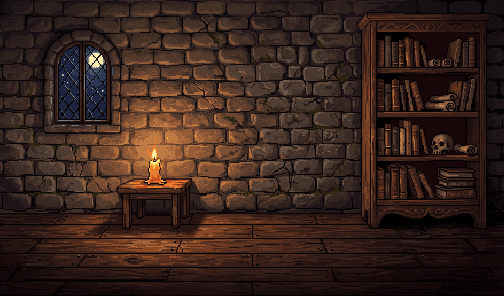
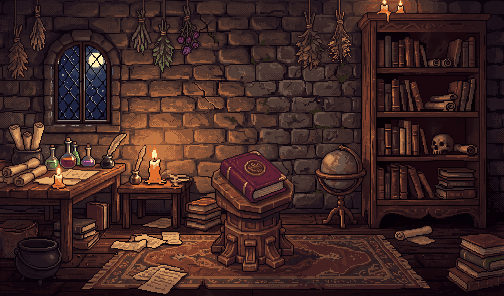
Livre de sorts : l'étude refaite avec le lutrin dedans, une lueur ovale

diff --git a/godot/scripts/Game/LecternView.cs b/godot/scripts/Game/LecternView.cs
@@ -16,6 +16,10 @@ public partial class LecternView : Control
 
     public event Action? Opened;
 
+    /// <summary>Dessiner le lutrin ? Non quand l'image de la scène le contient déjà (même point de vue, même lumière : choix
+    /// de l'utilisateur, 2026-11-12) : il ne reste alors que la lueur, les étincelles et le clic.</summary>
+    public bool ShowImage { get; init; } = true;
+
     private static readonly Color Wood = MapRenderer.Rgb(104, 66, 38), WoodDark = MapRenderer.Rgb(62, 38, 22),
         WoodLight = MapRenderer.Rgb(140, 94, 56), Leather = MapRenderer.Rgb(96, 44, 30), LeatherDark = MapRenderer.Rgb(52, 22, 16),
         Pages = MapRenderer.Rgb(214, 196, 150), Gold = MapRenderer.Rgb(196, 150, 60), Glow = MapRenderer.Rgb(255, 226, 140);
@@ -64,14 +68,22 @@ public partial class LecternView : Control
     private static Vector2 A(float x, float y) => new(ArtPx(x), ArtPx(y));
 
     /// <summary>L'image du lutrin et de son livre (<c>art/ui/lutrin.png</c>), dessinée à la place de la maquette.</summary>
-    private readonly Texture2D? _image = Art.Get("ui/lutrin");
+    private Texture2D? _image;
+
+    public override void _Ready() => _image = ShowImage ? Art.Get("ui/lutrin") : null;
 
     public override void _Draw()
     {
-        // la lueur derrière le livre : des rectangles de lumière, qui battent ; plus forte au survol
-        float pulse = (_hover ? 0.32f : 0.18f) * (0.8f + 0.2f * MathF.Sin((float)_time * 2.5f));
+        // la lueur autour du livre : des ovales de lumière posés les uns sur les autres (plus clairs au centre), qui battent ;
+        // plus forte au survol
+        float pulse = (_hover ? 0.16f : 0.08f) * (0.8f + 0.2f * MathF.Sin((float)_time * 2.5f));
         for (int ring = 0; ring < 4; ring++)
-            DrawRect(new Rect2(A(40 - ring * 8, 30 - ring * 6), A(80 + ring * 16, 40 + ring * 12)), new Color(Glow, pulse * (1 - ring / 4f)));
+            DrawOval(A(80, 52), ArtPx(30 + ring * 12), ArtPx(20 + ring * 8), new Color(Glow, pulse));
+        if (!ShowImage)
+        {
+            DrawSparks();
+            return;
+        }
         if (_image != null)
         {
             var size = _image.GetSize() * ArtScale;
@@ -100,6 +112,18 @@ public partial class LecternView : Control
         DrawColoredPolygon(mark, Gold.Darkened(0.25f));
         DrawPolyline(new[] { mark[0], mark[1], mark[2], mark[3], mark[0] }, Gold, Grid);
         DrawSparks();
+    }
+
+    /// <summary>Un ovale plein, en bandes d'un pixel d'art (net, sur la grille).</summary>
+    private void DrawOval(Vector2 center, float rx, float ry, Color color)
+    {
+        for (float y = -ry; y < ry; y += Grid)
+        {
+            float v = (y + Grid / 2f) / ry;
+            float half = SnapDown(rx * MathF.Sqrt(Math.Max(0, 1 - v * v)));
+            if (half > 0)
+                DrawRect(new Rect2(center.X - half, center.Y + y, 2 * half, Grid), color);
+        }
     }
 
     /// <summary>Les étincelles qui montent du livre et pâlissent.</summary>

diff --git a/godot/scripts/Game/TownScreen.cs b/godot/scripts/Game/TownScreen.cs
@@ -789,7 +789,7 @@ public partial class TownScreen : CanvasLayer
         var window = OpenWindow(new Vector2(sceneSize.X + 2 * WindowMargin, top + sceneSize.Y + WindowMargin), Texts.GuildTitle(town), overView: true);
         var scene = new SceneBackdrop { SceneName = $"academie-{town.Faction}", Faction = town.Faction, Size = sceneSize, Position = new Vector2(WindowMargin, top) };
         window.AddChild(scene);
-        var lectern = new LecternView { TooltipText = Texts.OpenGuildBookHint };
+        var lectern = new LecternView { TooltipText = Texts.OpenGuildBookHint, ShowImage = !scene.HasImage };
         lectern.Position = scene.Position + new Vector2(SnapDown((sceneSize.X - lectern.Size.X) / 2), sceneSize.Y - lectern.Size.Y - ArtPx(4));
         lectern.Opened += () =>
         {

diff --git a/godot/scripts/Game/HeroScreen.cs b/godot/scripts/Game/HeroScreen.cs
@@ -381,7 +381,7 @@ public partial class HeroScreen : ScreenWindow
         var scene = new SceneBackdrop { SceneName = "etude", Size = SceneBackdrop.StudySize * Grid };
         scene.Position = new Vector2(SnapDown((Px(PageSize.X) - scene.Size.X) / 2), SnapDown((Px(PageSize.Y) - scene.Size.Y) / 2));
         page.AddChild(scene);
-        var lectern = new LecternView();
+        var lectern = new LecternView { ShowImage = !scene.HasImage };
         lectern.Position = scene.Position + new Vector2(SnapDown((scene.Size.X - lectern.Size.X) / 2), scene.Size.Y - lectern.Size.Y - ArtPx(6));
         lectern.TooltipText = Texts.OpenSpellBookHint;
         lectern.Opened += () =>

diff --git a/godot/scripts/Game/SceneBackdrop.cs b/godot/scripts/Game/SceneBackdrop.cs
@@ -23,6 +23,9 @@ public partial class SceneBackdrop : Control
     public static readonly Vector2 StudySize = new(504, 296), AcademySize = new(480, 232);
 
     private Texture2D? _image;
+
+    /// <summary>La scène a-t-elle son image ? Elle contient alors le lutrin (<see cref="LecternView.ShowImage"/>).</summary>
+    public bool HasImage => Art.Get($"ui/scenes/{SceneName}") != null;
     private double _time;
 
     public SceneBackdrop()

diff --git a/tools/art/METHODE.md b/tools/art/METHODE.md
@@ -403,6 +403,15 @@ les clés et le dossier `art-candidats/` sont décrits dans `CLAUDE.md` ; l'hist
   (`retoucher --fond` sur un dessin de la disposition : mur, sol aux 72 % de la hauteur, fenêtre à gauche, étagère à
   droite, bougie sur une table, le milieu vide pour le lutrin) ; « cozy medieval wizard study at night… the middle of
   the room left empty and uncluttered, keep the exact same layout and proportions ». Réussie du premier coup, 0,15 $.
+  **Puis refaite avec le lutrin dedans** (choix de l'utilisateur) : le lutrin généré à part n'avait ni le point de vue
+  ni la lumière de la pièce. Recette : coller le lutrin choisi (`art/ui/lutrin.png`) dans l'image de la scène, à sa place
+  dans le jeu (en bas au milieu, 6 pixels au-dessus du bord), puis `retoucher --fond` : « one single consistent point
+  of view and one single warm candle lighting for the whole scene, the lectern lit and shaded like the rest of the room
+  and standing firmly on the floor with a soft shadow; fill the room with more details: a rug, a desk with scrolls,
+  potions and a quill, a globe, a small cauldron, hanging dried herbs, piles of books, a few more candles; keep … the
+  lectern in the middle at the same place and size ». Deux essais (0,15 $ chacun) ; choisi le A (moins de bougies). Le
+  jeu ne dessine plus le lutrin sur une scène qui a son image (`LecternView.ShowImage`) : la lueur, les étincelles et le
+  clic seulement. **À refaire ainsi pour chaque académie.**
 - **Icônes du panneau de la carte** (2026-11-09, même méthode, l'engrenage choisi comme image de style) : suivant 56
   (heaume et flèche), avancer 3 (botte), centrer 15 (cible), royaume 8 (couronne), creuser 48 (pelle), trésor 60 (carte
   roulée) ; Sorts et Options reprennent le livre et l'engrenage du combat. Le code commun : `IconButtons.cs`.

diff --git a/PLAN.md b/PLAN.md
@@ -106,7 +106,7 @@ cet ordre :
    ville), le grimoire sur son lutrin au milieu ; un clic ouvre le livre. Chaque scène remplit son onglet ou sa fenêtre ;
    le fond est une image sans le lutrin (`art/ui/scenes/etude.png`, `academie-<faction>.png`), le lutrin et son livre une
    image à part posée dessus (`art/ui/lutrin.png` : il luit, on clique dessus). Sans image, le jeu dessine une scène
-   d'attente. ✅ Le lutrin (le 3, un socle rond sculpté) le livre ouvert et l'étude (2026-11-12). Images à faire ensuite : l'académie du Château, une
+   d'attente. ✅ Le lutrin (le 3, un socle rond sculpté) le livre ouvert et l'étude (2026-11-12 ; le lutrin fait partie de l'image de chaque scène, pour le même point de vue et la même lumière : choix de l'utilisateur). Images à faire ensuite : l'académie du Château, une
    icône par sort ; plus tard les autres académies.
 3. **Une image par sort** (le livre, la guilde) : **de petites peintures en couleur**, comme Heroes 2 et 3 (choix de
    l'utilisateur), à la taille trouvée avec la maquette.
